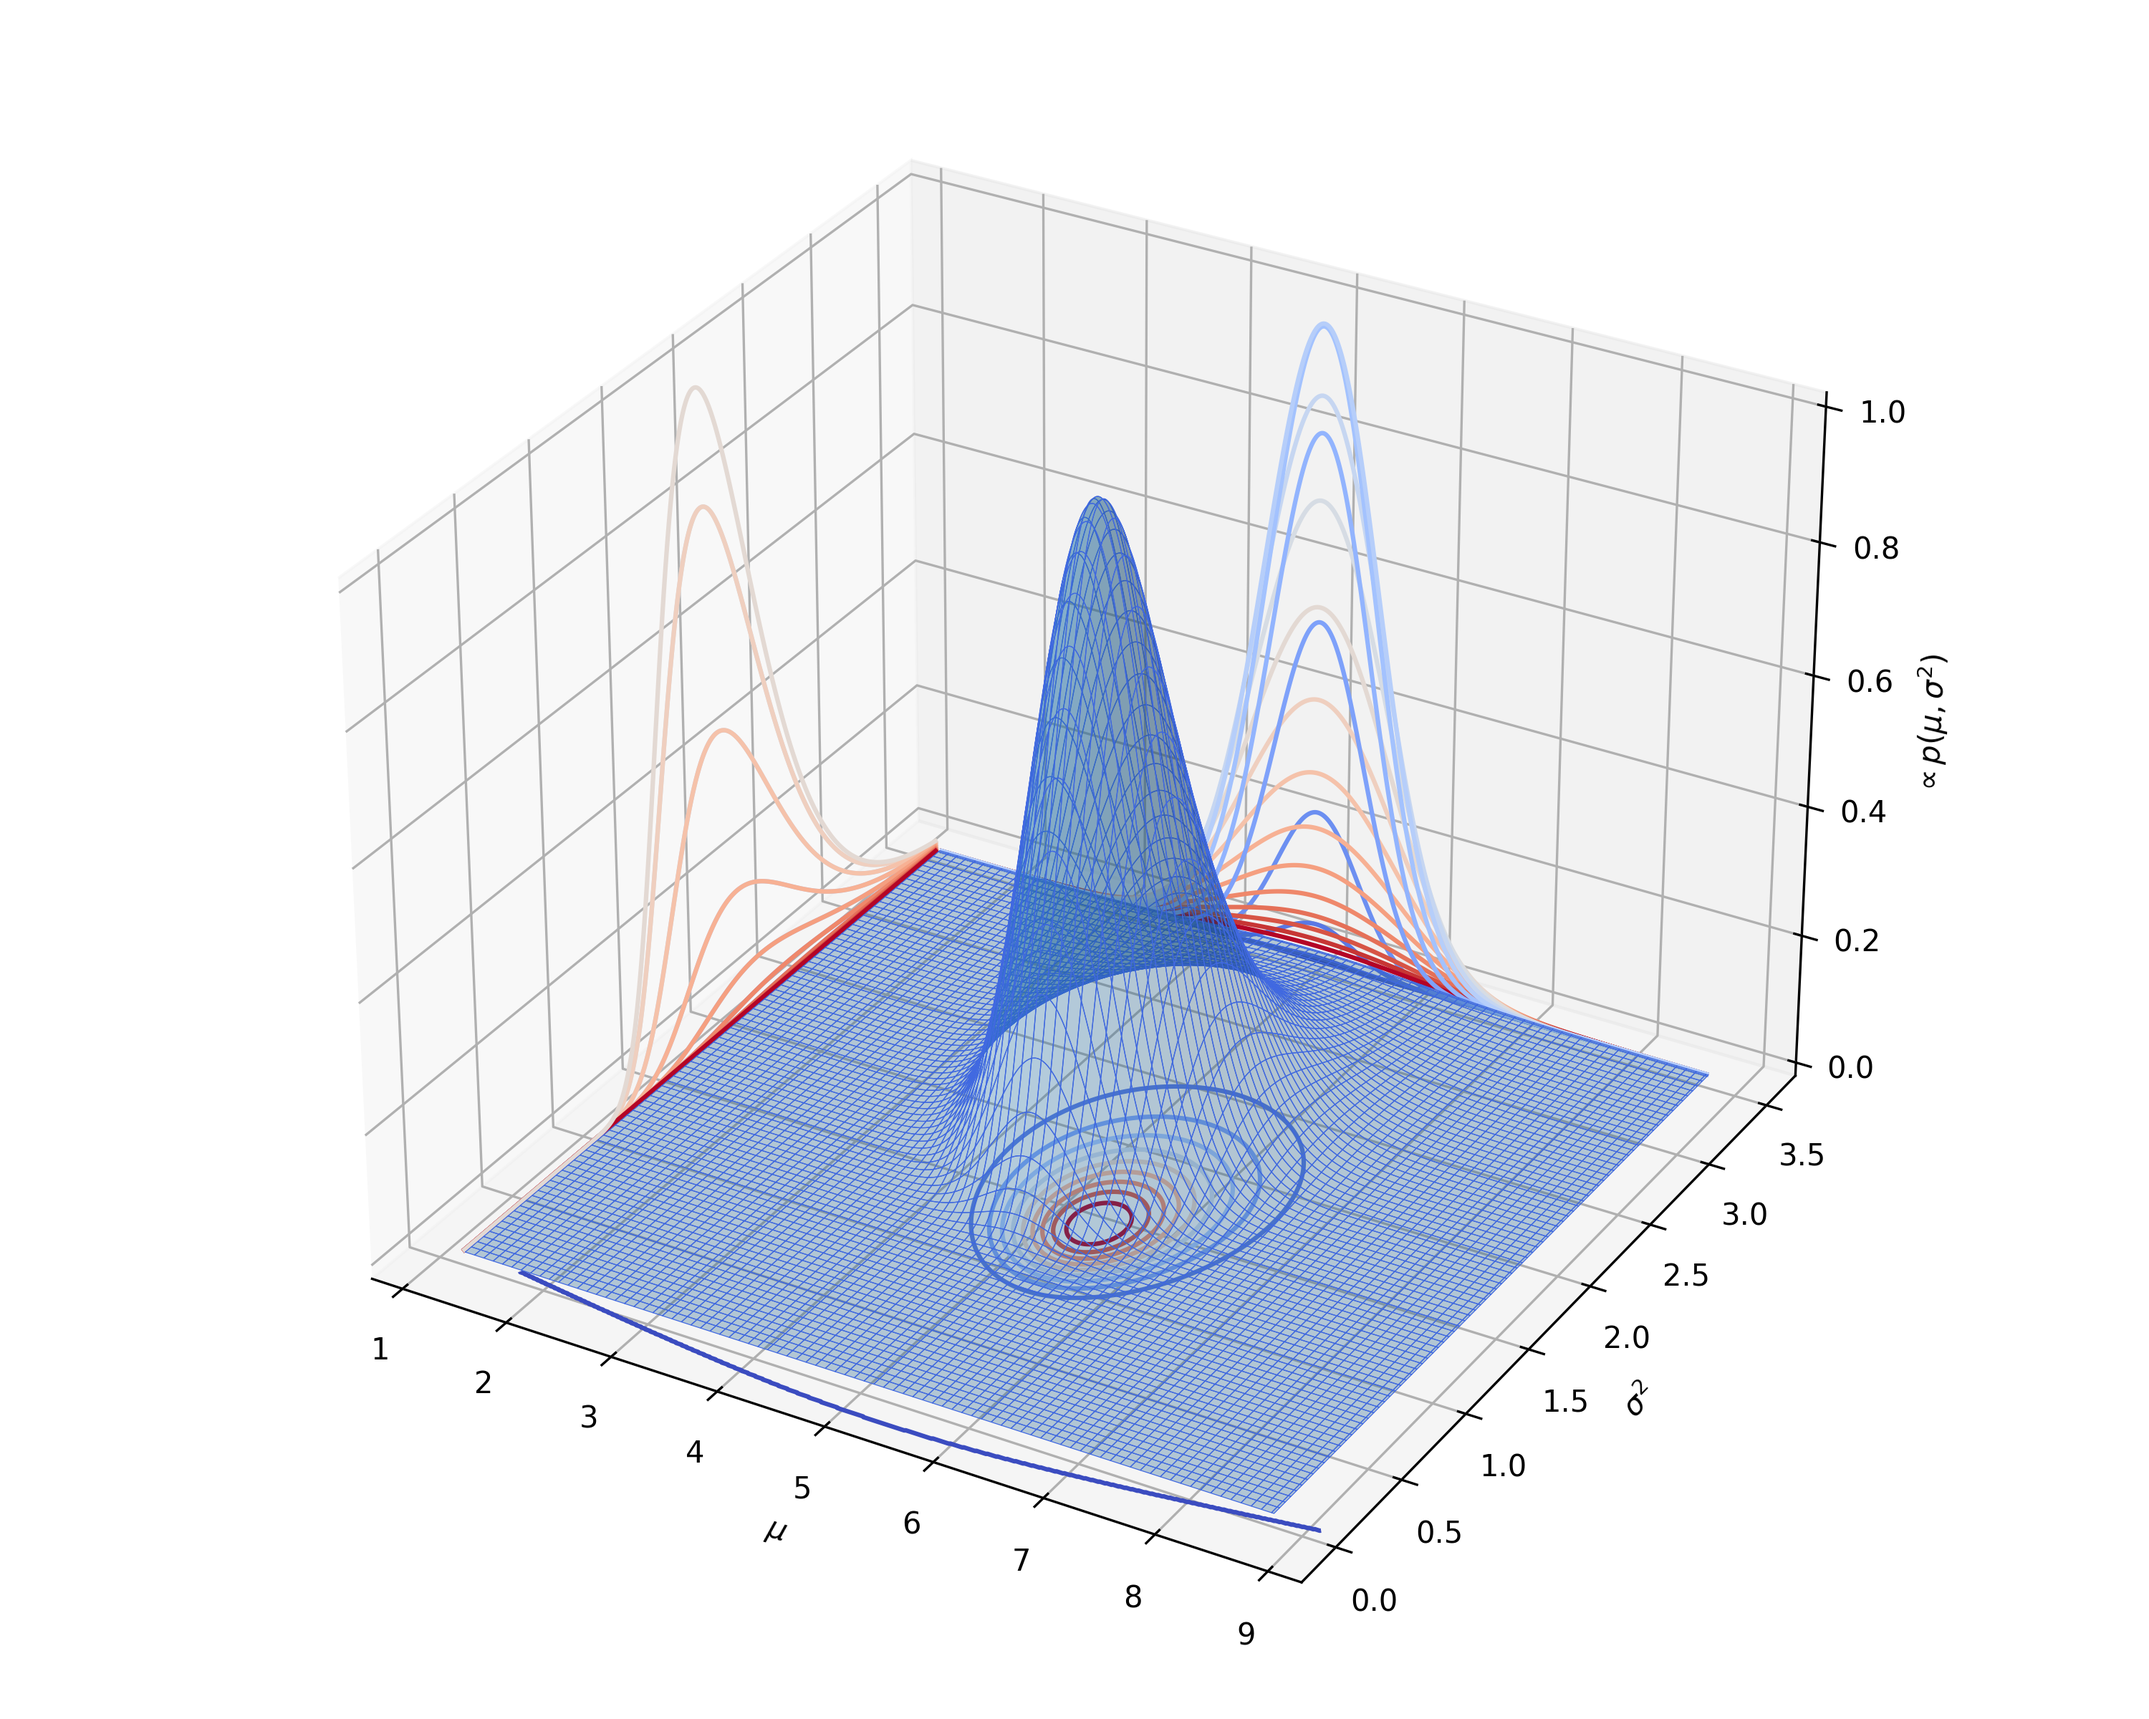
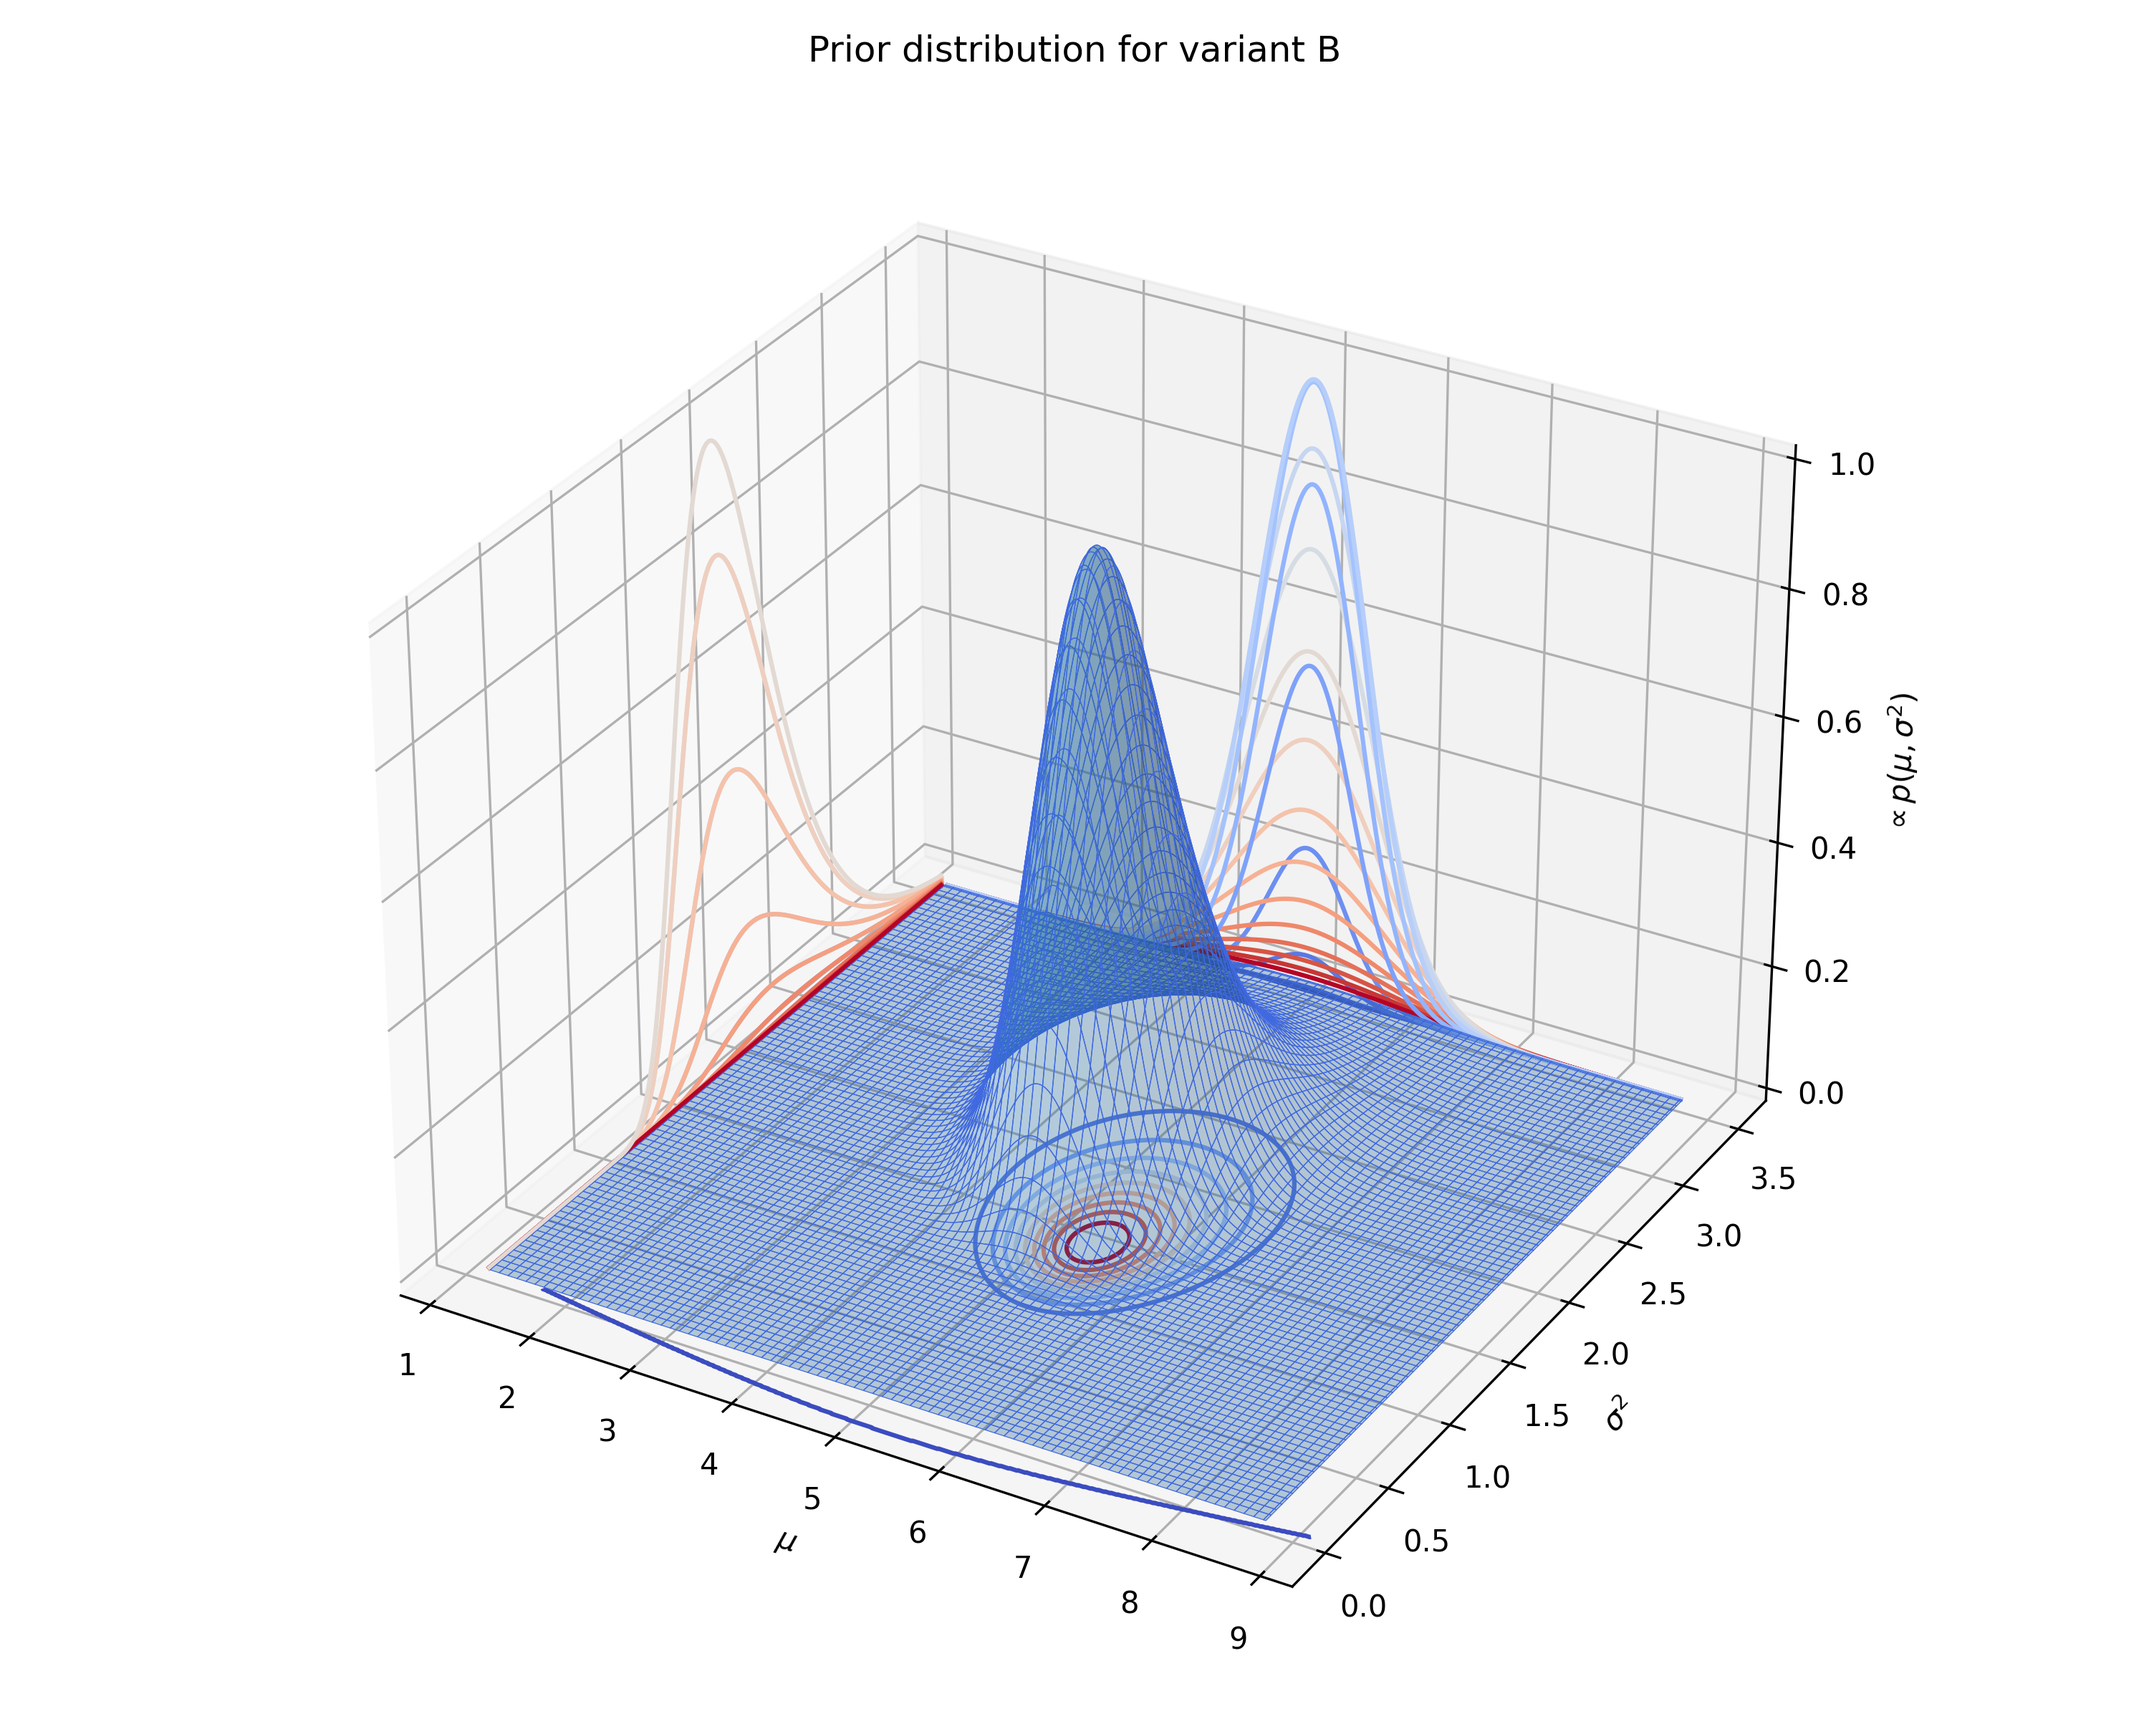
Update to README.md

diff --git a/bayes_ab/experiments/normal.py b/bayes_ab/experiments/normal.py
@@ -455,6 +455,8 @@ class NormalDataTest(BaseDataTest):
 
         ax.set(xlabel="$\mu$", ylabel="$\sigma^2$", zlabel="$\propto p(\mu, \sigma^2$)")
 
+        plt.suptitle(f"Prior distribution for variant {variant}")
+
         fig.tight_layout()
 
         if fname:

diff --git a/README.md b/README.md
@@ -327,7 +327,7 @@ test.plot_distributions(control='A', fname='normal_distributions_example.png')
     +---------+--------------+------+-----------+-----------+--------------------+---------------+----------------+----------------+-----------------+
 
 We can also plot the joint prior distribution for $\mu$ and $\sigma^2$, the posterior distributions for $\mu$ and
-$\frac{1}{\sigma^2}, and the distribution of differences from a given control.
+$\frac{1}{\sigma^2}$, and the distribution of differences from a given control.
 
 ![](https://raw.githubusercontent.com/PlatosTwin/bayes_ab/main/examples/plots/normal_prior_distribution_B_example.png)
 ![](https://raw.githubusercontent.com/PlatosTwin/bayes_ab/main/examples/plots/normal_distributions_example.png)
